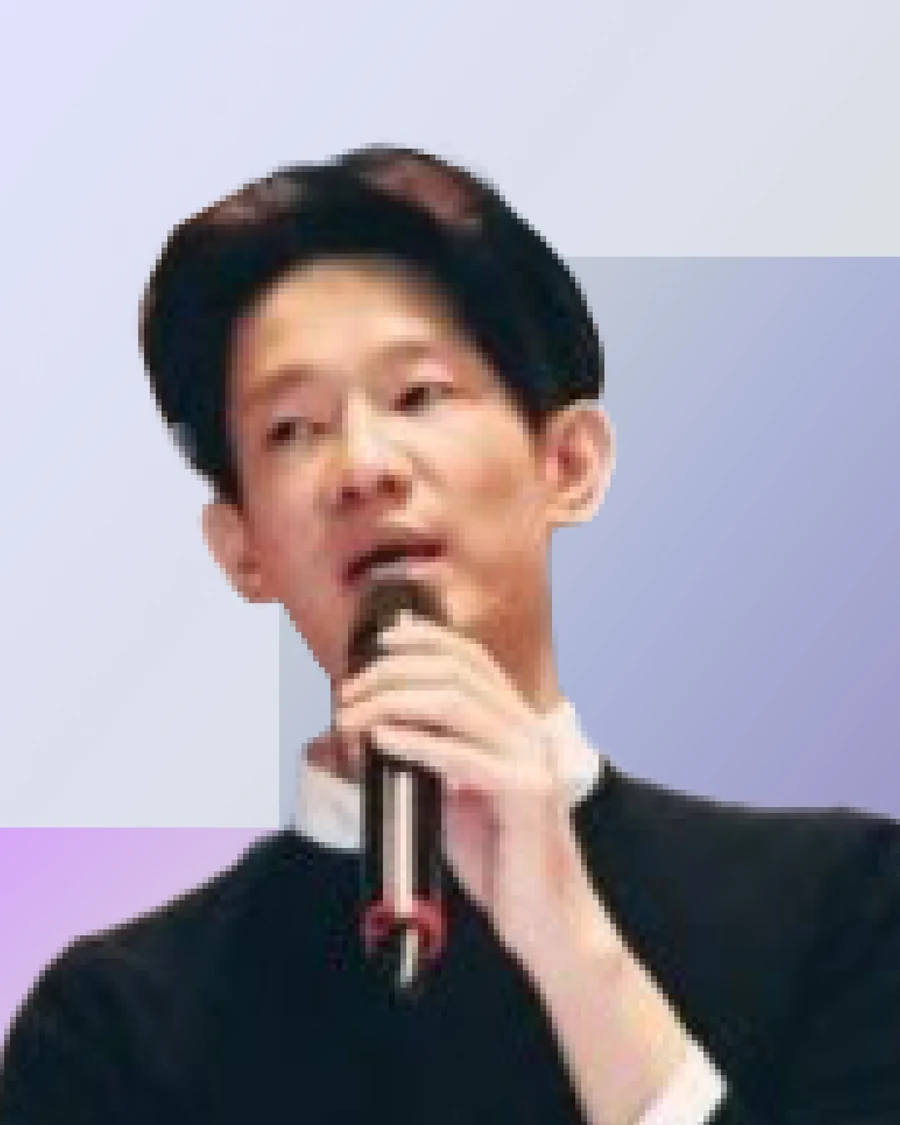
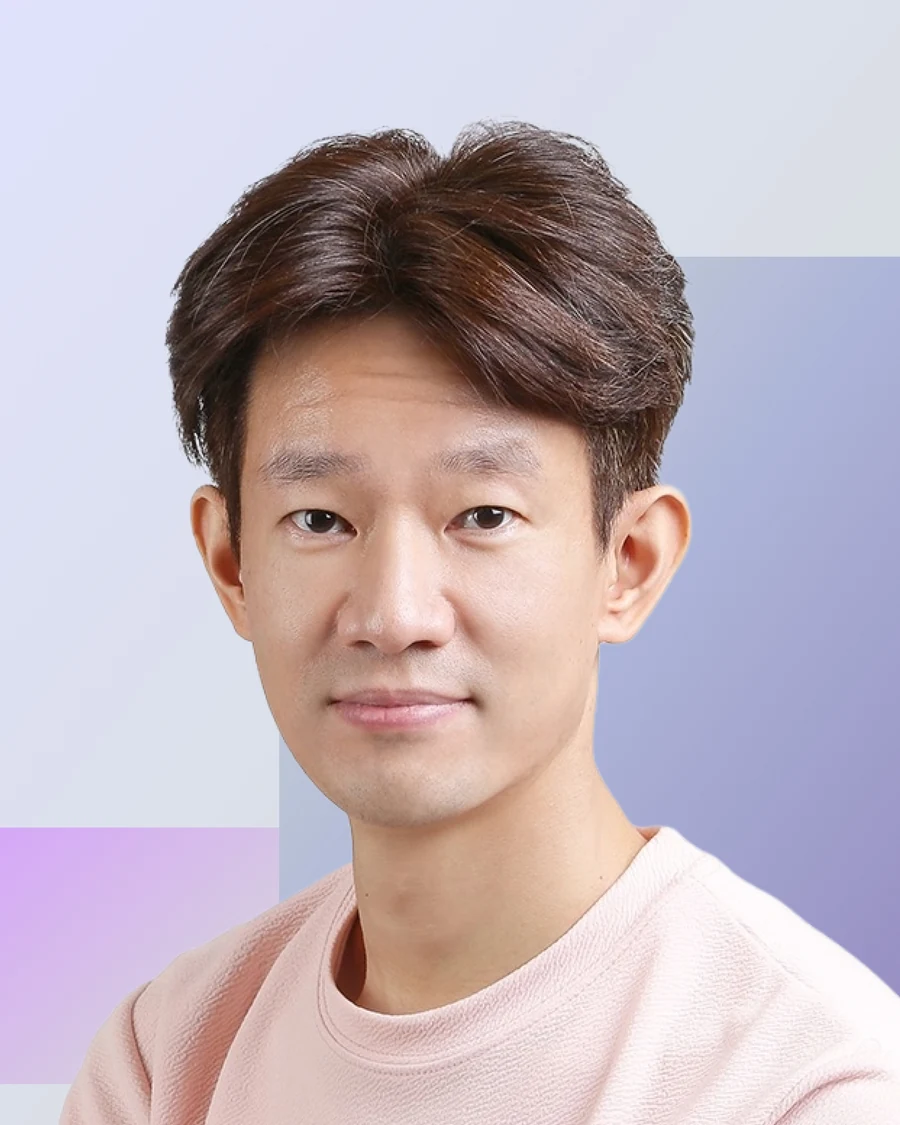
Update Early Bird tickets to sold out

diff --git a/knight2026/src/components/ticket/SectionTicketHeader.tsx b/knight2026/src/components/ticket/SectionTicketHeader.tsx
@@ -20,7 +20,6 @@ type TicketOption = {
   image: StaticImageData;
   imageAlt: string;
   price: string;
-  buttonLabel: string;
   variant: "regular" | "early";
 };
 
@@ -30,7 +29,6 @@ const ticketOptions: TicketOption[] = [
     image: ticketEarly,
     imageAlt: "K-Night 2026 Early Bird Ticket",
     price: "$70",
-    buttonLabel: "GET EARLY BIRD TICKETS",
     variant: "early",
   },
   {
@@ -38,12 +36,10 @@ const ticketOptions: TicketOption[] = [
     image: ticketRegular,
     imageAlt: "K-Night 2026 Regular Ticket",
     price: "$80",
-    buttonLabel: "Buy regular Ticket",
     variant: "regular",
   },
 ];
 
-const ticketsOpeningSoon = true;
 const ticketDestinationUrl =
   "https://www.zeffy.com/en-US/ticketing/k-night--2026";
 
@@ -51,10 +47,12 @@ function TicketLink({
   analytics,
   children,
   className,
+  disabled = false,
 }: {
   analytics: TicketAnalyticsParams;
   children: string;
   className: string;
+  disabled?: boolean;
 }) {
   const linkRef = useRef<HTMLAnchorElement>(null);
   const hasImpressedRef = useRef(false);
@@ -83,11 +81,19 @@ function TicketLink({
   return (
     <a
       ref={linkRef}
-      href={ticketDestinationUrl}
+      href={disabled ? undefined : ticketDestinationUrl}
       target="_blank"
       rel="noreferrer"
+      aria-disabled={disabled || undefined}
+      tabIndex={disabled ? -1 : undefined}
       className={className}
-      onClick={() => trackTicketEvent("ticket_click", analytics)}
+      onClick={(event) => {
+        if (disabled) {
+          event.preventDefault();
+          return;
+        }
+        trackTicketEvent("ticket_click", analytics);
+      }}
     >
       {children}
     </a>
@@ -197,25 +203,18 @@ export default function SectionTicketHeader() {
                       language: locale,
                       button_text: isEarly
                         ? copy.earlyBirdButton
-                        : ticketsOpeningSoon
-                          ? copy.openingSoon
-                          : option.buttonLabel,
+                        : copy.regularButton,
                       destination_url: ticketDestinationUrl,
                     }}
+                    disabled={isEarly}
                     className={[
                       "type-button inline-flex h-10 max-md:w-full shrink-0 items-center justify-center px-4 py-2 text-center text-sm md:h-11 md:px-5 md:py-0 md:text-base",
-                      ticketsOpeningSoon && !isEarly
-                        ? "cursor-pointer rounded-[12px] border btn-muted"
-                        : isEarly
-                          ? "btn-home-cta"
-                          : "btn-ghost",
+                      isEarly
+                        ? "pointer-events-none cursor-not-allowed rounded-[12px] border btn-muted"
+                        : "cursor-pointer rounded-[12px] border btn-home-cta",
                     ].join(" ")}
                   >
-                    {isEarly
-                      ? copy.earlyBirdButton
-                      : ticketsOpeningSoon
-                        ? copy.openingSoon
-                        : option.buttonLabel}
+                    {isEarly ? copy.earlyBirdButton : copy.regularButton}
                   </TicketLink>
                 </div>
               </StaggerItem>

diff --git a/knight2026/src/content/siteContent.ts b/knight2026/src/content/siteContent.ts
@@ -316,7 +316,8 @@ export const donationSupportCopy = {
 export const ticketCopy = {
   en: {
     badge: "EARLY BIRD TICKETS NOW AVAILABLE",
-    earlyBirdButton: "GET EARLY BIRD TICKETS",
+    earlyBirdButton: "SOLD OUT",
+    regularButton: "GET REGULAR TICKETS",
     title: "Ticket",
     eventDetails: [
       "September 12, Saturday",
@@ -325,7 +326,6 @@ export const ticketCopy = {
     ],
     prices: ["$70", "$80"],
     perPerson: "PER PERSON",
-    openingSoon: "Opening Soon",
     noticeTitle: "Notice",
     noticeIntro:
       "K-Night is a pre-registration only event. Please read the following information before purchasing your ticket.",
@@ -363,7 +363,8 @@ export const ticketCopy = {
   },
   ko: {
     badge: "얼리버드 티켓 판매 중",
-    earlyBirdButton: "얼리버드 티켓 구매하기",
+    earlyBirdButton: "매진",
+    regularButton: "티켓 구매하기",
     title: "티켓",
     eventDetails: [
       "9월 12일 토요일",
@@ -372,7 +373,6 @@ export const ticketCopy = {
     ],
     prices: ["$70", "$80"],
     perPerson: "인당",
-    openingSoon: "오픈예정",
     noticeTitle: "안내사항",
     noticeIntro:
       "본 행사는 사전 예약제로 운영되며, 원활한 진행을 위해 아래 안내 사항을 반드시 확인해 주시기 바랍니다.",
